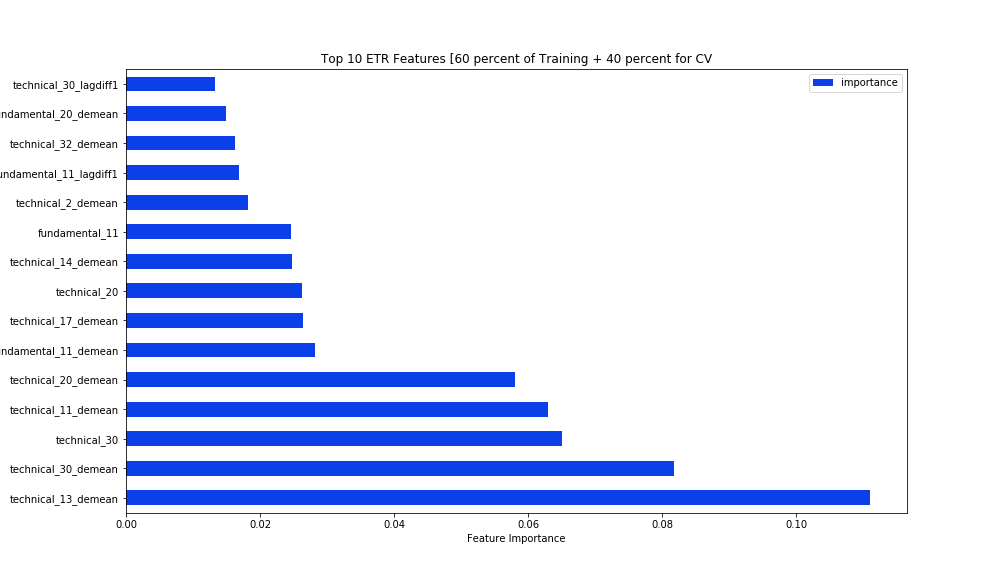
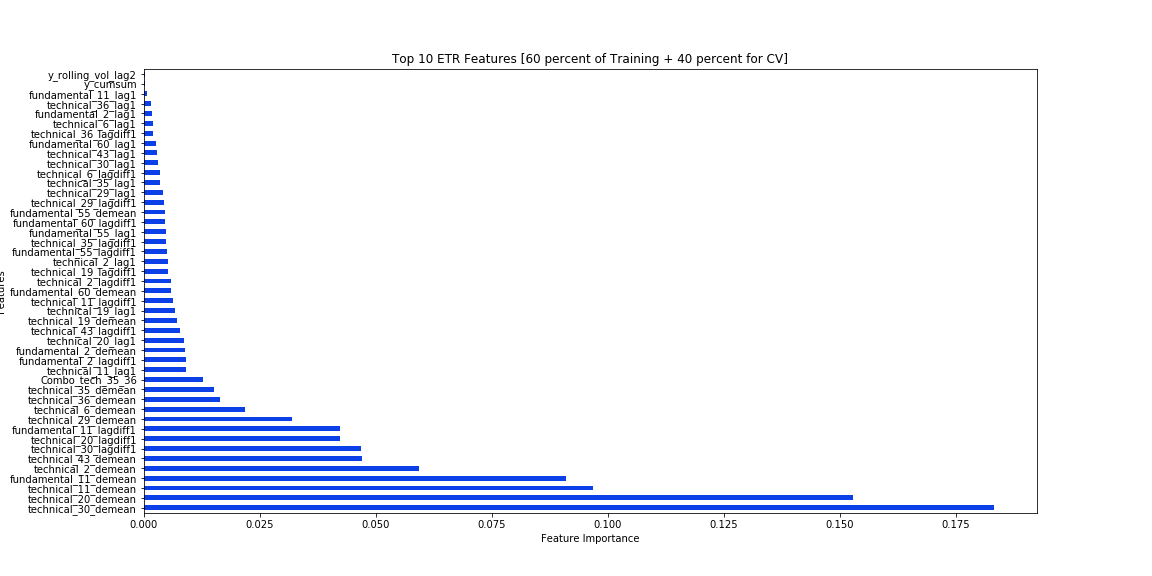
Completed feature selection process by ranking corr(x,y) and single feature Ridge reward score, completed feature importance charting, not working for XGB

Changed region(s): [[0.0, 0.125, 0.8611, 0.9375], [0.3075, 0.0938, 0.7073, 0.125], [0.7996, 0.125, 0.8919, 0.1562]]

diff --git a/code/features.py b/code/features.py
@@ -3,15 +3,19 @@ import numpy as np
 import re
 import statsmodels.api as sm
 from sklearn.metrics import accuracy_score, mean_squared_error
-from sklearn.linear_model import LassoCV
+from sklearn.linear_model import LassoCV, Ridge
 from sklearn.model_selection import GridSearchCV
 from sklearn.ensemble import ExtraTreesClassifier, RandomForestClassifier, ExtraTreesRegressor
+
+import os
+os.environ['KMP_DUPLICATE_LIB_OK'] = 'True'
 import xgboost as xgb
 import matplotlib
 matplotlib.use('PS')
 import matplotlib.pyplot as plt
 import environment
 from dataset import Dataset
+
 
 # use the Dataset object to perform feature selection
 class FeatureSelection(object):
@@ -71,8 +75,7 @@ class FeatureSelection(object):
                 cluster.add(correlated_features_neg)
         return cluster
 
-    #TODO: 
-    # add extra features: lagged + fusion of existing features
+
     def filter_features(self, num_features_threshold=10):
         """
         Once highly correlated features are found, we aim to combine them to form new features
@@ -80,9 +83,6 @@ class FeatureSelection(object):
         - combination of highly correlated features through summation/sub, weighted sums
         - produce lagged features, will be based on sign of autocorrelation
         """
-
-        #TODO: need check correlation between de-mean features, check for multicollinearity
-        # keep high correlated features with output y and de-mean in addition to existing features
         core_features = self.features
         features_df = self.train[core_features]
         """
@@ -97,10 +97,55 @@ class FeatureSelection(object):
         #y = features_df['y']
         features_corr_to_y = features_df[core_features].corrwith(y).abs().sort_values(ascending=False)
         print(features_corr_to_y)
-        #features_corr_to_y = features_df[['timestamp'] + core_features].groupby('timestamp').apply(lambda x:x.mean())[core_features].corrwith(y.groupby('timestamp').apply(lambda x:x.mean())['y']).sort_values(ascending=False)
         selected_features = list(features_corr_to_y.head(num_features_threshold).index)
         self.features = selected_features
         return selected_features
+
+    # generate single feature linear models to assess their reward score
+    def generate_single_reward(self):
+        train = self.train
+        top_features = self.features
+        track_score = {}
+        for feature in top_features:
+            model = Ridge()
+            model.fit(np.array(train[feature].values).reshape(-1,1), train.y.values)
+            rewards = {}    
+            env = environment.make(df)
+            observation = env.reset()
+
+            while True:
+                test_x = np.array(observation.features[feature].values).reshape(-1,1)
+                observation.target.y = model.predict(test_x)
+                target = observation.target
+                timestamp = observation.features["timestamp"][0]
+                if timestamp % 100 == 0:
+                    print("Timestamp #{}".format(timestamp))
+
+                observation, reward, done, info = env.step(target)
+                if done:
+                    track_score[feature] = info['public_score']
+                    print(feature, track_score[feature])
+                    break
+        rewards_df = pd.DataFrame.from_dict(track_score, orient='index', columns=['features','reward']).sort_values(by='reward', ascending=False)
+        rewards_df.to_csv(self.outpath+'_Ridge_Reward.csv')
+
+    # rank corr with y and single feature reward score
+    # take top features with the least delta in rank
+    def select_top_features(self, num_features_threshold=14, abs_rank_delta=25):
+        y = self.train['y']
+        train = self.train[self.features]
+        corr_with_y = train.corrwith(y).abs().sort_values(ascending=False).to_frame(name='corr')
+        corr_with_y.index.name = 'features'
+        corr_with_y.reset_index(level=0, inplace=True)
+        corr_with_y['rank_corr'] = corr_with_y['corr'].rank()
+        reward_df = pd.read_csv(self.outpath+'_Ridge_Reward.csv')
+        reward_df['rank_reward'] = reward_df['reward'].rank()
+        rank_df = pd.merge(corr_with_y, reward_df, on='features')
+        top_rank_df = rank_df[(abs(rank_df['rank_corr']-rank_df['rank_reward']) < abs_rank_delta) & (rank_df['rank_reward'] > 0)]
+        top_rank_df.to_csv(self.outpath+'_Top_Ridge_Corr_Reward_Rank.csv')
+        print(top_rank_df)
+        return list(top_rank_df.head(num_features_threshold)['features'])
+
 
     # feature engineering on filtered features based on correlation against the output variable
     def generate_features(self, features=[]):
@@ -131,7 +176,7 @@ class FeatureSelection(object):
             #features_df[[c+'_rollvol'+str(2*lag) for c in selected_features]] = features_df[['timestamp']+selected_features].groupby('timestamp')[selected_features].rolling(2*lag).std().fillna(0)
             features_df['y_rolling_vol'+'_lag'+str(2*lag)] = features_df[['timestamp','y']].groupby('timestamp').mean().rolling(2*lag).std().fillna(0)  
         features_df['y_cumsum'] = features_df[['timestamp', 'y']].groupby('timestamp').mean().cumsum().fillna(0)
-        self.features = [c for c in features_df if c not in self.ind + ['y'] + self.features]
+        self.features = [c for c in features_df if c not in self.ind + ['y'] + selected_features]
         self.train = features_df.fillna(0)
         return self.train
     
@@ -173,25 +218,32 @@ class FeatureSelection(object):
         """
         params = {'n_estimators':100, 'max_depth':4, 'random_state':17, 'verbose':0}
         etr = ExtraTreesRegressor(n_jobs=-1, **params)
+        num_features = 20
+        title = 'Top ' + str(num_features) + ' Features [60 percent of Training + 40 percent for CV]'
+        features_rank = self.generate_feature_importance(etr, x_train, y_train, num_features=num_features, title=title)    
+        #features_rank = pd.DataFrame(list(model.get_booster().get_fscore().items()), index=self.features, columns=['importance']).sort_values('importance', ascending=False)
+        top_features = [features_rank.head(10).index]
+        print(features_rank)
+        
+        """
         model = etr.fit(x_train, y_train)
         features_rank = pd.DataFrame(model.feature_importances_, index=self.features, columns=['importance']).sort_values(by='importance', ascending=False)
-        top_features = list(features_rank.head(10).index)
-        """
+        top_features = list(features_rank.head(14))
+        print(top_features)
+        
         plt.xticks(np.arange(len(features_rank.head(10))), features_rank.head(10).index, label="Features", rotation='vertical')
         plt.bar(np.arange(len(features_rank.head(10))), features_rank['importance'])
         plt.tight_layout()
-        """
-        features_rank.head(15).plot(kind='barh', color='#0b3fe8', legend=None, figsize=(16,8))
+        
+        features_rank[top_features].sort_values(by='importance', inplace=True).plot(kind='barh', color='#0b3fe8', legend=None, figsize=(20,8))
         plt.xlabel('Feature Importance')
         plt.ylabel('Features')
         plt.title('Top 10 ETR Features [60 percent of Training + 40 percent for CV]')
         #plt.tight_layout()
         plt.savefig('output/features_importance_etr.png')
-        print(features_rank)
-        print(top_features)
         #print(model.score(x_cv, y_cv))
         #print(model.score(x_cv[features_rank.head(10).index], y_cv))
-
+        """
         params = {
             'objective' : 'reg:linear'
             ,'tree_method': 'hist'
@@ -205,7 +257,6 @@ class FeatureSelection(object):
             ,'base_score' : 0.0
             ,'reg_lambda': 0.5
             ,'reg_alpha': 0.0
-
         } 
 
         """
@@ -219,7 +270,6 @@ class FeatureSelection(object):
         
         xgb_ = xgb.XGBRegressor(n_jobs=-1)
         clf = xgb_.fit(x_train, y_train)
-       
         clf = GridSearchCV(xgb_, {'max_depth': [4, 8],
                                     'min_child_weight':[50, 100],
                                     'reg_lambda:': [0.3, 0.6, 0.9],
@@ -228,11 +278,10 @@ class FeatureSelection(object):
         clf.fit(x_train, y_train)
         print("best params for XGB: ", clf.best_params_)
         """
-        params = {'n_estimators': 10, 'max_depth': 4, 'min_child_weight': 100, 'reg_alpha': 0.9, 'reg_lambda:': 0.3}
+        #params = {'n_estimators': 14, 'max_depth': 4, 'min_child_weight': 100, 'reg_alpha': 0.9, 'reg_lambda:': 0.3}
         xgb_ = xgb.XGBClassifier(n_jobs=-1, **params)
-        model = xgb_.fit(x_train, y_train) 
-        self.plot_feature_importance(model, x_train, y_train, clf_name="xgb")    
-        features_rank = pd.DataFrame(list(model.get_booster().get_fscore().items()), index=self.features, columns=['importance']).sort_values('importance', ascending=False)
+        features_rank = self.generate_feature_importance(xgb_, x_train, y_train)    
+        #features_rank = pd.DataFrame(list(model.get_booster().get_fscore().items()), index=self.features, columns=['importance']).sort_values('importance', ascending=False)
         top_features = [features_rank.head(10).index]
         print(features_rank)
         #print(clf.best_score_)
@@ -243,8 +292,7 @@ class FeatureSelection(object):
         fig, ax = plt.subplots(figsize=(12,18))
         xgb.plot_importance(model, ax=ax)
         plt.savefig('feature_importance_xgb.png')
-        
-    
+        """
         train_xgb = xgb.DMatrix(data=x_train.loc[:,top_features], label=y_train)        
         model = xgb.train(params.items(), train_xgb, num_boost_round=15)
         print(model.get_score(importance_type="cover"))
@@ -255,7 +303,7 @@ class FeatureSelection(object):
         plt.savefig('output/feature_importance_xgb.png')
         print(mean_squared_error(y_cv, pred))
         model.save_model('feature_select.model')
-        """
+    
         models = [ExtraTreesClassifier(), RandomForestClassifier()]
         for model in models:
             model.fit(x_train, y_train)
@@ -267,17 +315,34 @@ class FeatureSelection(object):
         print('done')
 
 
-    def plot_feature_importance(self, clf, X_train, y_train, clf_name=""):     
+    def generate_feature_importance(self, clf, X_train, y_train, num_features=14, figsize=(14,8), title="Feature Importances"):     
+        from xgboost.core import XGBoostError
+        from lightgbm.sklearn import LightGBMError
+    
+        try: 
+            if not hasattr(clf, 'feature_importances_'):
+                clf.fit(X_train.values, y_train.values.ravel())
+
+                if not hasattr(clf, 'feature_importances_'):
+                    raise AttributeError("{} does not have feature_importances_ attribute".
+                                        format(clf.__class__.__name__))
+                    
+        except (XGBoostError, LightGBMError, ValueError):
+            clf.fit(X_train.values, y_train.values.ravel())
+        clf_name = clf.__class__.__name__ 
+        title = clf_name + " " + title
         feat_imp = pd.DataFrame({'importance':clf.feature_importances_})    
-        feat_imp['feature'] = X_train.columns
+        feat_imp['Features'] = X_train.columns
         feat_imp.sort_values(by='importance', ascending=False, inplace=True)
-        feat_imp = feat_imp.iloc[:top_n]
-        
+        feat_imp = feat_imp.iloc[:num_features]
         feat_imp.sort_values(by='importance', inplace=True)
-        feat_imp = feat_imp.set_index('feature', drop=True)
-        feat_imp.plot.barh(title=title, figsize=figsize)
-        plt.xlabel('Feature Importance Score')
-        plt.savefig(outpath+clf_name+'_feature_importance.png')
+        feat_imp = feat_imp.set_index('Features', drop=True)
+        feat_imp.plot.barh(title=title, figsize=figsize, color='#0b3fe8', legend=None)
+        plt.xlabel('Feature Importance')
+        plt.tight_layout()
+        plt.subplots_adjust(left=0.15, right=0.9)
+        plt.savefig(self.outpath+clf_name+'_feature_importance.png')
+        return feat_imp
 
 
     def Wrapper_features_selection(self):
@@ -328,8 +393,8 @@ if __name__ == '__main__':
     df_norm = data_obj.preprocess(fill_method='median', scale_method='normalize')
     #print(df_norm.describe())
     features_obj = FeatureSelection(data_obj)
-    filtered_features = features_obj.filter_features()
-    new_df = features_obj.generate_features()
+    filtered_features = features_obj.select_top_features()
+    new_df = features_obj.generate_features(filtered_features)
     #backward_selection_features = features_obj.Wrapper_features_selection()
     #print(backward_selection_features)
     features_obj.get_feature_importance()

diff --git a/code/data_analysis.py b/code/data_analysis.py
@@ -39,6 +39,20 @@ class DataAnalysis(object):
         plt.savefig(self.outpath+'missing_nan.png')
         return null_counts
     
+    def analyze_corr_with_score(self):
+        df = self.data_obj.preprocess(fill_method='median', scale_method='none')
+        features_obj = FeatureSelection(self.data_obj)
+        train = features_obj.train
+        corr_with_y = train[features_obj.features].corrwith(train.y).abs().sort_values(ascending=False).to_frame(name='corr')
+        corr_with_y.index.name = 'features'
+        corr_with_y.reset_index(level=0, inplace=True)
+        corr_with_y['rank_corr'] = corr_with_y['corr'].rank()
+        reward_df = pd.read_csv(self.outpath+'_Ridge_Reward.csv')
+        reward_df['rank_reward'] = reward_df['reward'].rank()
+        rank_df = pd.merge(corr_with_y, reward_df, on='features')
+        top_rank_df = rank_df[(abs(rank_df['rank_corr']-rank_df['rank_reward']) < 30) & (rank_df['rank_reward'] > 0)]
+        top_rank_df.to_csv(self.outpath+'_Top_Ridge_Corr_Reward_Rank.csv')
+
     # overfitting data using Ridge
     def analyze_selected_features(self):
         df = self.data_obj.preprocess(fill_method='median', scale_method='none')
@@ -77,7 +91,7 @@ class DataAnalysis(object):
                     track_score[feature] = info['public_score']
                     print(feature, track_score[feature])
                     break
-        rewards_df = pd.DataFrame.from_dict(track_score, orient='index', columns=['reward']).sort_values(by='reward', ascending=False)
+        rewards_df = pd.DataFrame.from_dict(track_score, orient='index', columns=['features','reward']).sort_values(by='reward', ascending=False)
         rewards_df.to_csv(self.outpath+'_Ridge_Reward.csv')
         print(rewards_df)
 
@@ -149,6 +163,7 @@ class DataAnalysis(object):
 if __name__ == "__main__":
     cols = ['technical_20', 'technical_30', 'technical_29', 'technical_40']
     data_analysis = DataAnalysis(cols)
+    data_analysis.analyze_corr_with_score()
     data_analysis.analyze_selected_features()
     # unprocessed data
     #print(data_analysis.analyze_corr().head(6))
